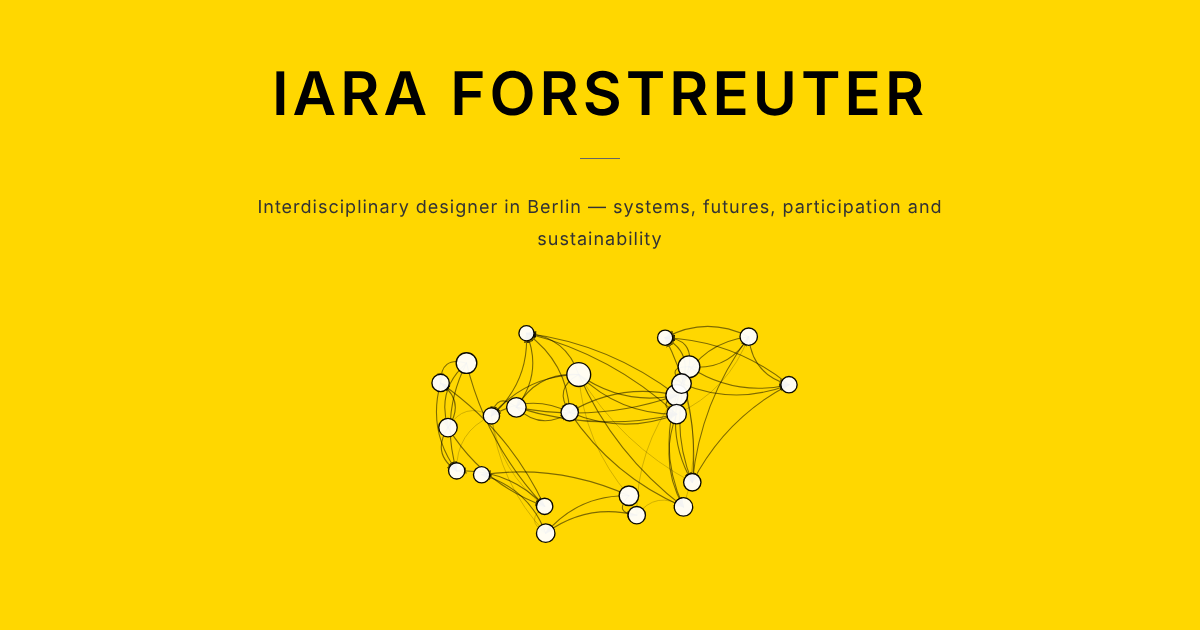
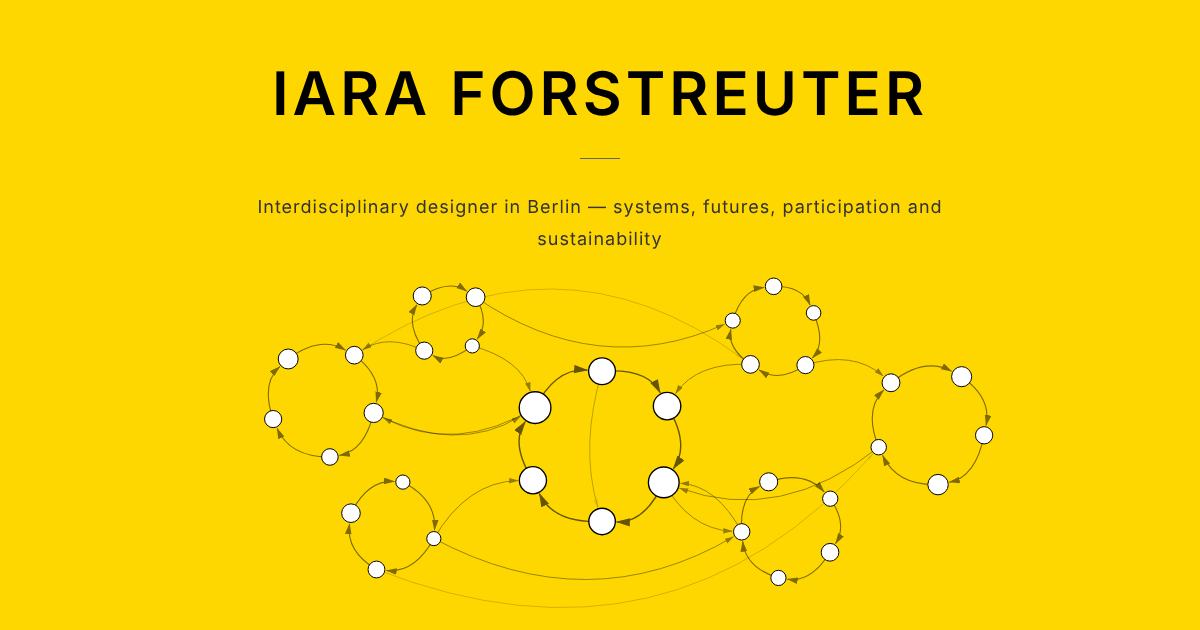
Hero: reshape the network as a causal loop map
A central "deep structure" loop of larger nodes with six smaller feedback
loops around it. Nodes sit on rings linked by arcs that follow the circle,
with sweeping curves between loops. Each loop breathes, sways and drifts
slowly; hover reflection kept. Removes the leftover mouse-reset code and
refreshes the share image.

Claude-Session: https://claude.ai/code/session_01NJV6eDzNDMhU5kPEKNMVLp

diff --git a/index.html b/index.html
@@ -1352,38 +1352,38 @@
 <script>
 const allColors = ['#FF4444', '#FF6666', '#0056B3', '#87CEEB', '#FFD700', '#FF8C00'];
 
-// System-map layout: five clusters spread across the drawing, each a hub
-// with satellites around it. Positions are fixed so the map reads the same
-// on every visit; motion is a slow per-cluster "breathing" plus a small wobble.
-const CLUSTERS = [
-  { cat: 'systems',        cx: 215,  cy: 290, n: 5, start: -80 },
-  { cat: 'futures',        cx: 500,  cy: 185, n: 4, start: -20 },
-  { cat: 'participation',  cx: 715,  cy: 400, n: 5, start: -65 },
-  { cat: 'sustainability', cx: 935,  cy: 185, n: 4, start: 15 },
-  { cat: 'design',         cx: 1185, cy: 310, n: 5, start: -100 },
+// Causal-loop map layout, after Kumu-style system maps: a central "deep
+// structure" loop of larger nodes, surrounded by smaller feedback loops.
+// Nodes sit on rings and are linked around each ring by arcs that follow
+// the circle; long sweeping curves connect the outer loops to the core.
+const LOOPS = [
+  { name: 'core',           cx: 700,  cy: 300, R: 120, n: 6, r: 21, start: -90, core: true },
+  { name: 'systems',        cx: 245,  cy: 235, R: 85,  n: 5, r: 13, start: -60 },
+  { name: 'futures',        cx: 455,  cy: 110, R: 62,  n: 4, r: 12, start: -45 },
+  { name: 'sustainability', cx: 990,  cy: 115, R: 72,  n: 5, r: 12, start: -20 },
+  { name: 'design',         cx: 1235, cy: 270, R: 88,  n: 5, r: 13, start: 10 },
+  { name: 'participation',  cx: 1005, cy: 445, R: 80,  n: 5, r: 12, start: 30 },
+  { name: 'learning',       cx: 365,  cy: 440, R: 78,  n: 4, r: 12, start: 20 },
 ];
-// satellites evenly spread around each hub, alternating near/far
-CLUSTERS.forEach(c => {
-  c.sats = [];
-  for (let k = 0; k < c.n; k++) c.sats.push([c.start + k * 360 / c.n + (k % 2 ? 12 : -8), k % 2 ? 125 : 100]);
-});
 const nodes = [];
-CLUSTERS.forEach((c, ci) => {
-  c.phase = ci * 1.3;
-  c.hub = nodes.length;
-  nodes.push({ x: c.cx, y: c.cy, r: 22, cat: c.cat, cluster: ci, hub: true });
-  c.sats.forEach(([deg, dist], si) => {
-    const a = deg * Math.PI / 180;
-    nodes.push({ x: c.cx + Math.cos(a) * dist, y: c.cy + Math.sin(a) * dist,
-                 r: 13 + ((ci + si) % 3) * 2, cat: c.cat, cluster: ci, hub: false });
-  });
+LOOPS.forEach((L, li) => {
+  L.phase = li * 1.7;
+  L.members = [];
+  for (let k = 0; k < L.n; k++) {
+    const ang = (L.start + k * 360 / L.n) * Math.PI / 180;
+    L.members.push(nodes.length);
+    nodes.push({ x: L.cx + Math.cos(ang) * L.R, y: L.cy + Math.sin(ang) * L.R,
+                 r: L.r + ((k * 7 + li) % 3) * (L.core ? 2 : 1.5), loop: li, core: !!L.core });
+  }
 });
 nodes.forEach((node, i) => {
   node.color = allColors[i % allColors.length];
-  node.wobbleAmp = node.hub ? 5 : 8 + (i % 4) * 2;     // small, in place
-  node.wobblePhase = (i * 2.399) % (Math.PI * 2);       // golden-angle spread
-  node.wobbleSpeed = 0.18 + (i % 5) * 0.04;            // slow
+  node.wobbleAmp = 3 + (i % 3);                        // tiny, in place
+  node.wobblePhase = (i * 2.399) % (Math.PI * 2);
+  node.wobbleSpeed = 0.15 + (i % 5) * 0.03;
 });
+// current (animated) positions, used by nodes, edges and hover
+const cur = nodes.map(n => ({ x: n.x, y: n.y }));
 const origPos = nodes.map(n => ({...n}));
 const connGroup = document.getElementById('connections');
 const nodesGroup = document.getElementById('nodes');
@@ -1395,8 +1395,8 @@ nodes.forEach((node, i) => {
   circle.setAttribute('r', node.r);
   circle.setAttribute('fill', '#fff');
   circle.setAttribute('stroke', '#000');
-  circle.setAttribute('stroke-width', '2.5');
-  circle.setAttribute('opacity', '0.85');
+  circle.setAttribute('stroke-width', node.core ? '2.2' : '1.6');
+  circle.setAttribute('opacity', '1');
   circle.dataset.idx = i;
   node.pulsePhase = Math.random() * Math.PI * 2;
   node.pulseSpeed = Math.random() * 0.035 + 0.015;
@@ -1404,42 +1404,66 @@ nodes.forEach((node, i) => {
 });
 
 
-// Edges: hub-satellite inside each cluster, neighbouring satellites, a loop
-// between the hubs (like a causal loop), and a few satellite bridges.
+// Edges. 'ring' arcs run around each loop and close it (feedback loop);
+// 'link' curves sweep between loops; 'cross' is a chord inside the core.
 const EDGES = [];
-CLUSTERS.forEach(c => {
-  const sats = nodes.map((n, i) => i).filter(i => nodes[i].cluster === nodes[c.hub].cluster && i !== c.hub);
-  sats.forEach(i => EDGES.push([c.hub, i, 'strong']));
-  for (let k = 0; k + 1 < sats.length; k += 2) EDGES.push([sats[k], sats[k + 1], 'light']);
+LOOPS.forEach((L, li) => L.members.forEach((m, k) =>
+  EDGES.push({ a: m, b: L.members[(k + 1) % L.n], kind: L.core ? 'core' : 'ring', loop: li })));
+const nearest = (fromLoop, toLoop) => {
+  let best = [0, 0], bd = 1e9;
+  LOOPS[fromLoop].members.forEach(i => LOOPS[toLoop].members.forEach(j => {
+    const d = Math.hypot(nodes[i].x - nodes[j].x, nodes[i].y - nodes[j].y); if (d < bd) { bd = d; best = [i, j]; } }));
+  return best;
+};
+// every outer loop feeds the core; a few loops also feed each other
+[[1, 0, 1], [2, 0, -1], [3, 0, 1], [4, 0, -1], [5, 0, 1], [6, 0, -1],
+ [0, 5, 1], [0, 1, -1], [2, 1, 1], [3, 4, -1], [6, 5, 1], [2, 3, 1]].forEach(([f, t, side]) => {
+  const [i, j] = nearest(f, t); EDGES.push({ a: i, b: j, kind: 'link', side });
 });
-const hubLoop = [0, 1, 3, 4, 2, 0];   // systems → futures → sustainability → design → participation → systems
-for (let k = 0; k + 1 < hubLoop.length; k++) EDGES.push([CLUSTERS[hubLoop[k]].hub, CLUSTERS[hubLoop[k + 1]].hub, 'loop']);
-[[0, 2], [1, 2], [3, 2], [2, 4], [1, 3]].forEach(([ca, cb], k) => {
-  // bridge from the satellite of cluster ca closest to cluster cb
-  const target = CLUSTERS[cb];
-  let best = -1, bd = 1e9;
-  nodes.forEach((n, i) => { if (n.cluster === ca && !n.hub) { const d = Math.hypot(n.x - target.cx, n.y - target.cy); if (d < bd) { bd = d; best = i; } } });
-  EDGES.push([best, target.hub, 'light']);
-});
-const EDGE_STYLE = { strong: [2, 0.5], loop: [2.2, 0.45], light: [1.2, 0.28] };
-EDGES.forEach(([i, j, kind]) => {
-  const [lineWidth, lineOpacity] = EDGE_STYLE[kind];
-  const x1 = nodes[i].x, y1 = nodes[i].y, x2 = nodes[j].x, y2 = nodes[j].y;
-  const mx = (x1 + x2) / 2, my = (y1 + y2) / 2, dx = x2 - x1, dy = y2 - y1;
-  const dist = Math.sqrt(dx * dx + dy * dy) || 1;
-  const bend = kind === 'loop' ? 60 : 25;
+// long sweeping curves across the map
+EDGES.push({ a: LOOPS[1].members[0], b: LOOPS[3].members[2], kind: 'sweep', side: -1 });
+EDGES.push({ a: LOOPS[6].members[1], b: LOOPS[4].members[2], kind: 'sweep', side: 1 });
+EDGES.push({ a: LOOPS[0].members[0], b: LOOPS[0].members[3], kind: 'cross', side: 1 });
+
+const EDGE_STYLE = { core: [2.3, 0.6], ring: [1.8, 0.5], link: [1.5, 0.42], sweep: [1.1, 0.26], cross: [1.4, 0.3] };
+function loopCenter(li) {
+  const L = LOOPS[li]; let x = 0, y = 0;
+  L.members.forEach(m => { x += cur[m].x; y += cur[m].y; });
+  return [x / L.n, y / L.n];
+}
+function edgePath(e) {
+  const p = cur[e.a], q = cur[e.b];
+  const mx = (p.x + q.x) / 2, my = (p.y + q.y) / 2, dx = q.x - p.x, dy = q.y - p.y;
+  const len = Math.hypot(dx, dy) || 1;
+  let cx, cy;
+  if (e.kind === 'ring' || e.kind === 'core') {
+    // bulge away from the loop centre so the arc follows the circle
+    const [lx, ly] = loopCenter(e.loop);
+    let ux = mx - lx, uy = my - ly; const ul = Math.hypot(ux, uy) || 1; ux /= ul; uy /= ul;
+    const k = 0.33 * len;
+    cx = mx + ux * k; cy = my + uy * k;
+  } else {
+    const k = (e.kind === 'sweep' ? 0.35 : e.kind === 'cross' ? 0.15 : 0.28) * len * (e.side || 1);
+    cx = mx - dy / len * k; cy = my + dx / len * k;
+  }
+  // stop the line at the edge of the target ball so the arrow head shows
+  const rr = parseFloat(nodesGroup.children[e.b].getAttribute('r')) + 3;
+  const tx = q.x - cx, ty = q.y - cy, tl = Math.hypot(tx, ty) || 1;
+  return `M ${p.x.toFixed(1)} ${p.y.toFixed(1)} Q ${cx.toFixed(1)} ${cy.toFixed(1)} ${(q.x - tx / tl * rr).toFixed(1)} ${(q.y - ty / tl * rr).toFixed(1)}`;
+}
+EDGES.forEach((e, ei) => {
+  const [lineWidth, lineOpacity] = EDGE_STYLE[e.kind];
   const path = document.createElementNS('http://www.w3.org/2000/svg', 'path');
-  path.setAttribute('d', `M ${x1} ${y1} Q ${mx - dy / dist * bend} ${my + dx / dist * bend} ${x2} ${y2}`);
   path.setAttribute('stroke', '#000');
   path.setAttribute('stroke-width', lineWidth);
   path.setAttribute('opacity', lineOpacity);
   path.setAttribute('fill', 'none');
   path.setAttribute('stroke-linecap', 'round');
-  path.setAttribute('stroke-linejoin', 'round');
-  path.setAttribute('marker-end', lineOpacity > 0.4 ? 'url(#arrowhead)' : 'url(#arrowhead-light)');
-  path.dataset.from = i;
-  path.dataset.to = j;
-  path.dataset.bend = bend;
+  path.setAttribute('marker-end', lineOpacity >= 0.42 ? 'url(#arrowhead)' : 'url(#arrowhead-light)');
+  path.dataset.from = e.a;
+  path.dataset.to = e.b;
+  path.dataset.edge = ei;
+  path.setAttribute('d', edgePath(e));
   connGroup.appendChild(path);
 });
 
@@ -1450,52 +1474,28 @@ let hovered = -1;
 
 function animateDrift() {
   animationTime += 0.016;
-  const circles = nodesGroup.querySelectorAll('circle');
-  
-  circles.forEach((circle, idx) => {
-    const node = nodes[idx];
-
-    // Consistent opacity
-    circle.setAttribute('opacity', 0.95);
-
-    if (!affectedByMouse.has(idx)) {
-      const c = CLUSTERS[node.cluster];
-      const breathe = 1 + 0.06 * Math.sin(animationTime * 0.35 + c.phase);   // ~18 s per breath
-      const bx = c.cx + (node.x - c.cx) * breathe;
-      const by = c.cy + (node.y - c.cy) * breathe;
-      const t = animationTime * node.wobbleSpeed + node.wobblePhase;
-      circle.setAttribute('cx', bx + Math.sin(t) * node.wobbleAmp);
-      circle.setAttribute('cy', by + Math.cos(t * 0.8) * node.wobbleAmp);
-      circle.setAttribute('r', node.r * (idx === hovered ? 1.3 : 1) * (1 + 0.04 * Math.sin(animationTime * 0.5 + node.wobblePhase)));
-    }
+  const t = animationTime;
+  const circles = nodesGroup.children;
+  // each loop breathes (scales), sways (small rotation) and drifts a little
+  LOOPS.forEach((L, li) => {
+    const s = 1 + (L.core ? 0.035 : 0.06) * Math.sin(t * 0.3 + L.phase);          // ~20 s per breath
+    const rot = (L.core ? 0.02 : 0.05) * Math.sin(t * 0.11 + L.phase);            // gentle sway
+    const ox = 6 * Math.sin(t * 0.07 + L.phase), oy = 5 * Math.cos(t * 0.09 + L.phase);
+    const cr = Math.cos(rot), sr = Math.sin(rot);
+    L.members.forEach(i => {
+      const n = nodes[i], dx = (n.x - L.cx) * s, dy = (n.y - L.cy) * s;
+      const w = t * n.wobbleSpeed + n.wobblePhase;
+      cur[i].x = L.cx + ox + dx * cr - dy * sr + Math.sin(w) * n.wobbleAmp;
+      cur[i].y = L.cy + oy + dx * sr + dy * cr + Math.cos(w * 0.8) * n.wobbleAmp;
+    });
   });
-  const paths = connGroup.querySelectorAll('path');
-  paths.forEach(path => {
-    const from = parseInt(path.dataset.from);
-    const to = parseInt(path.dataset.to);
-    const c1 = circles[from];
-    const c2 = circles[to];
-    if (c1 && c2) {
-      const x1 = parseFloat(c1.getAttribute('cx'));
-      const y1 = parseFloat(c1.getAttribute('cy'));
-      const x2 = parseFloat(c2.getAttribute('cx'));
-      const y2 = parseFloat(c2.getAttribute('cy'));
-
-      // Update curve with new positions
-      const mx = (x1 + x2) / 2;
-      const my = (y1 + y2) / 2;
-      const dx = x2 - x1;
-      const dy = y2 - y1;
-      const dist = Math.sqrt(dx * dx + dy * dy);
-      const bend = parseFloat(path.dataset.bend) || 40;
-      const perpx = dist > 0 ? -dy / dist * bend : 0;
-      const perpy = dist > 0 ? dx / dist * bend : 0;
-
-      const pathData = `M ${x1} ${y1} Q ${mx + perpx} ${my + perpy} ${x2} ${y2}`;
-      path.setAttribute('d', pathData);
-    }
-  });
-  
+  for (let i = 0; i < nodes.length; i++) {
+    const c = circles[i], n = nodes[i];
+    c.setAttribute('cx', cur[i].x.toFixed(1));
+    c.setAttribute('cy', cur[i].y.toFixed(1));
+    c.setAttribute('r', (n.r * (i === hovered ? 1.3 : 1) * (1 + 0.04 * Math.sin(t * 0.5 + n.wobblePhase))).toFixed(2));
+  }
+  connGroup.querySelectorAll('path').forEach(p => p.setAttribute('d', edgePath(EDGES[+p.dataset.edge])));
   requestAnimationFrame(animateDrift);
 }
 
@@ -1546,35 +1546,6 @@ svgEl.addEventListener('mousemove', (e) => {
 });
 svgEl.addEventListener('mouseleave', () => setHover(-1));
 
-hero.addEventListener('mouseleave', () => {
-  affectedByMouse.clear();
-  const circles = nodesGroup.querySelectorAll('circle');
-  circles.forEach((c, i) => {
-    c.setAttribute('cx', origPos[i].x);
-    c.setAttribute('cy', origPos[i].y);
-  });
-  
-  const paths = connGroup.querySelectorAll('path');
-  paths.forEach(path => {
-    const from = parseInt(path.dataset.from);
-    const to = parseInt(path.dataset.to);
-    const x1 = origPos[from].x;
-    const y1 = origPos[from].y;
-    const x2 = origPos[to].x;
-    const y2 = origPos[to].y;
-
-    const mx = (x1 + x2) / 2;
-    const my = (y1 + y2) / 2;
-    const dx = x2 - x1;
-    const dy = y2 - y1;
-    const dist = Math.sqrt(dx * dx + dy * dy);
-    const perpx = dist > 0 ? -dy / dist * 40 : 0;
-    const perpy = dist > 0 ? dx / dist * 40 : 0;
-
-    const pathData = `M ${x1} ${y1} Q ${mx + perpx} ${my + perpy} ${x2} ${y2}`;
-    path.setAttribute('d', pathData);
-  });
-});
 
 // Simple fade-in effect for decorative elements as they scroll into view
 const decorativeElements = document.querySelectorAll('.decorative-element');
